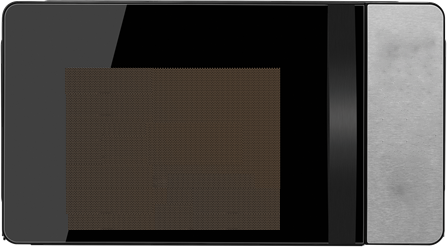
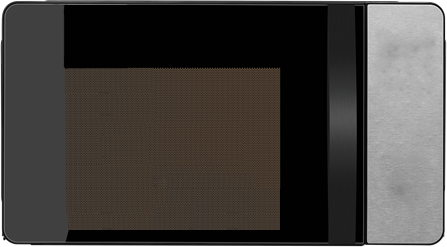
Fixed sessin time keep going when press button again at 0

Changed region(s): [[0.1454, 0.0, 0.2908, 0.2834]]

diff --git a/Timer.js b/Timer.js
@@ -1,37 +1,37 @@
+function currentTime(time){
+    minute=(time-time%60)/60;
+    minute=minute.toString();
+    if(minute.length<2){
+        minute="0"+minute;
+    }
+    second=time%60;
+    second=second.toString();
+    if(second.length<2){
+        second="0"+second;
+    }
+    return(minute+":"+second);
+}
 time=5
+oven=document.getElementById("OvenTime");
+oven.innerHTML=currentTime(time);
 let active = document.querySelector('.StartPause');
 var sound = document.getElementById('Click');
 function Active(){
     active.classList.toggle('active');
     if (active.classList.contains('active')){
         active.innerHTML = "PAUSE";
-        if(time>=0){
+        if(time>0){
             Oventime=setInterval(() => {
+                if(time>0){
+                    time--;
+                    oven.innerHTML=currentTime(time)
+                }
                 if(time<=0){
                     new Audio("Audio/Ding.mp3").play();
                     active.classList.remove('active');
                     active.innerHTML = "START";
                     clearInterval(Oventime)
                 }
-                minute=(time-time%60)/60;
-                minute=minute.toString();
-                if(minute.length<2){
-                    minute="0"+minute;
-                }
-                second=time%60;
-                second=second.toString();
-                if(second.length<2){
-                    second="0"+second;
-                }
-                currenttime=document.createTextNode(minute+":"+second)
-                if(document.getElementById("OvenTime")!=null){
-                    Oven.removeChild(document.getElementById("OvenTime"))
-                }
-                Timer=document.createElement("div")
-                Timer.appendChild(currenttime)
-                Timer.setAttribute("id","OvenTime")
-                Oven.appendChild(Timer);
-                time--;
             }, 1000);
         }
     }
@@ -40,4 +40,3 @@ function Active(){
         active.innerHTML = "START";
     }
 }
-Oven=document.getElementById("OvenTimer");

diff --git a/Session.js b/Session.js
@@ -3,35 +3,37 @@ var timer = document.getElementById('Session');
 Sextime = 0;
 
 function Turnon(){
-    if (activenow.classList.contains('active')){   
-        SessionTime = setInterval(() => {
-            var oventime = document.getElementById('OvenTime');
-            if (oventime.innerHTML == "00:00"){
-                clearInterval(SessionTime);
-            }
-
-            hour = (Sextime-Sextime%3600)/3600;
-            if (hour < 10){
-                hour = hour.toString();
-                hour = "0" + hour;
-            }
-
-            minute = (Sextime-Sextime%60)/60;
-            if (minute < 10){
-                minute = minute.toString();
-                minute = "0" + minute;
-            }
-
-            second = Sextime%60;
-            if (second < 10){
-                second = second.toString();
-                second = "0" + second; 
-            }
-
-            Sextime++
-
-            timer.innerHTML = hour + ":" + minute + ":" + second;
-        }, 1000);
+    if (activenow.classList.contains('active')){
+        if(time>0){
+            SessionTime = setInterval(() => {
+                Sextime++
+                var oventime = document.getElementById('OvenTime');
+                if (time==0){
+                    clearInterval(SessionTime);
+                }
+    
+                hour = (Sextime-Sextime%3600)/3600;
+                if (hour < 10){
+                    hour = hour.toString();
+                    hour = "0" + hour;
+                }
+    
+                minute = (Sextime-Sextime%60)/60;
+                if (minute < 10){
+                    minute = minute.toString();
+                    minute = "0" + minute;
+                }
+    
+                second = Sextime%60;
+                if (second < 10){
+                    second = second.toString();
+                    second = "0" + second; 
+                }
+    
+    
+                timer.innerHTML = hour + ":" + minute + ":" + second;
+            }, 1000);
+        }   
 
     }
     else{

diff --git a/OvenClock.css b/OvenClock.css
@@ -20,7 +20,7 @@ body{
     color:orange;
     font-size: 400%;
     top:57%;
-    left:33%;
+    left:30%;
     font-family:'Courier New', Courier, monospace;
 }
 #Oven{
@@ -62,7 +62,7 @@ body{
     position: relative;
 }
 #Plate{
-    margin-top:10%;
+    margin-top:2%;
     width: 60%;
 }
 #Session{
@@ -71,8 +71,8 @@ body{
     font-weight: Bold;
     font-size: 400%;
     color: #3D426B;
-    left: 33%;
-    bottom: 23%;
+    left: 30%;
+    bottom: 30%;
 }
 
 #Basket{

diff --git a/OvenClock.html b/OvenClock.html
@@ -15,7 +15,7 @@
             <div id="Timer">
                 <div id="OvenTimer">
                     <img id="Oven" src="Images/Oven.png"/>
-                  
+                    <div id="OvenTime"></div>
 <!-- Start and Pause Buttons -->
                     <button class="StartPause" onclick="sound.cloneNode(true).play(), Active(), Turnon()">START</button>
                     <audio id="Click">
